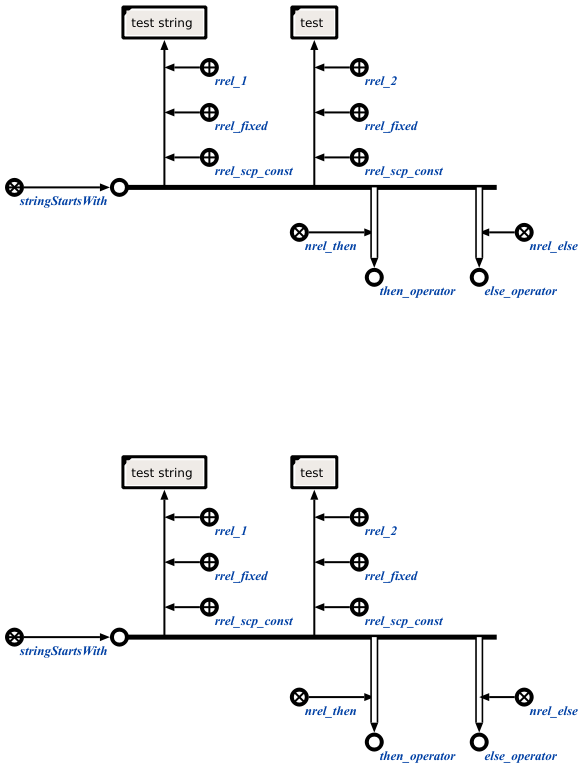
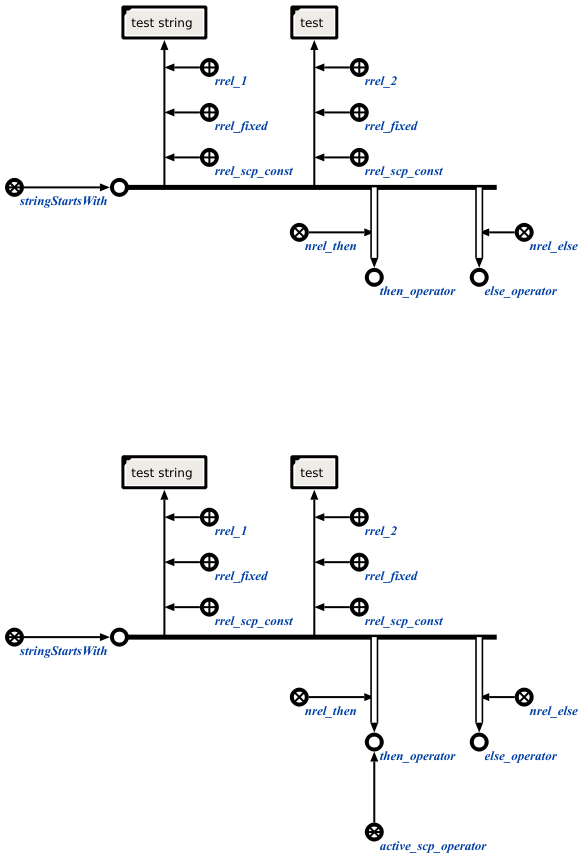
Added documentation for stringEndsWith scp-operator. Fixed image for stringStartsWith

Changed region(s): [[0.0, 0.5285, 0.9813, 0.9948], [0.0, 0.0, 0.9813, 0.4041]]

diff --git a/knowledge_base_IMS/doc_technology_ostis/section_basic_model_of_the_unified_processing_of_semantic_networks/section_subject_domain_of_programs_for_base_programming_language_focused_on_knowledge_base_models_process_htmls/explanation_for_stringEndsWith.html b/knowledge_base_IMS/doc_technology_ostis/section_basic_model_of_the_unified_processing_of_semantic_networks/section_subject_domain_of_programs_for_base_programming_language_focused_on_knowledge_base_models_process_htmls/explanation_for_stringEndsWith.html
@@ -1,0 +1,16 @@
+<p>
+Операторы класса 
+<b><sc_element sys_idtf  = "stringLen">scp-оператор проверки совпадения конца строкового содержимого sc-ссылки со строковом содержимым другой sc-ссылки</sc_element></b> описывают операции проверки на совпадение конечной части содержимого 
+<sc_element sys_idtf  = "rrel_link">sc-ссылки</sc_element>, являющейся значением первого операнда, с содержимым <sc_element sys_idtf  = "rrel_link">sc-ссылки</sc_element>, являющейся значением второго операнда.
+</p>
+<p>	
+Каждый оператор данного класса содержит два операнда.
+</p>
+<p>	
+Первый операнд должен быть помечен как 
+<sc_element sys_idtf  = "rrel_fixed">scp-операнд с заданным значением'</sc_element>. Значением данного операнда является sc-ссылка, идентифицирующая строку, в которой осуществляется поиск.
+</p>
+<p>	
+Второй операнд должен быть помечен как 
+<sc_element sys_idtf  = "rrel_fixed">scp-операнд с заданным значением'</sc_element>. Значением данного операнда является sc-ссылка, идентифицирующая строку, поиск которой осуществляется в конце содержимого первого операнда.
+</p>
